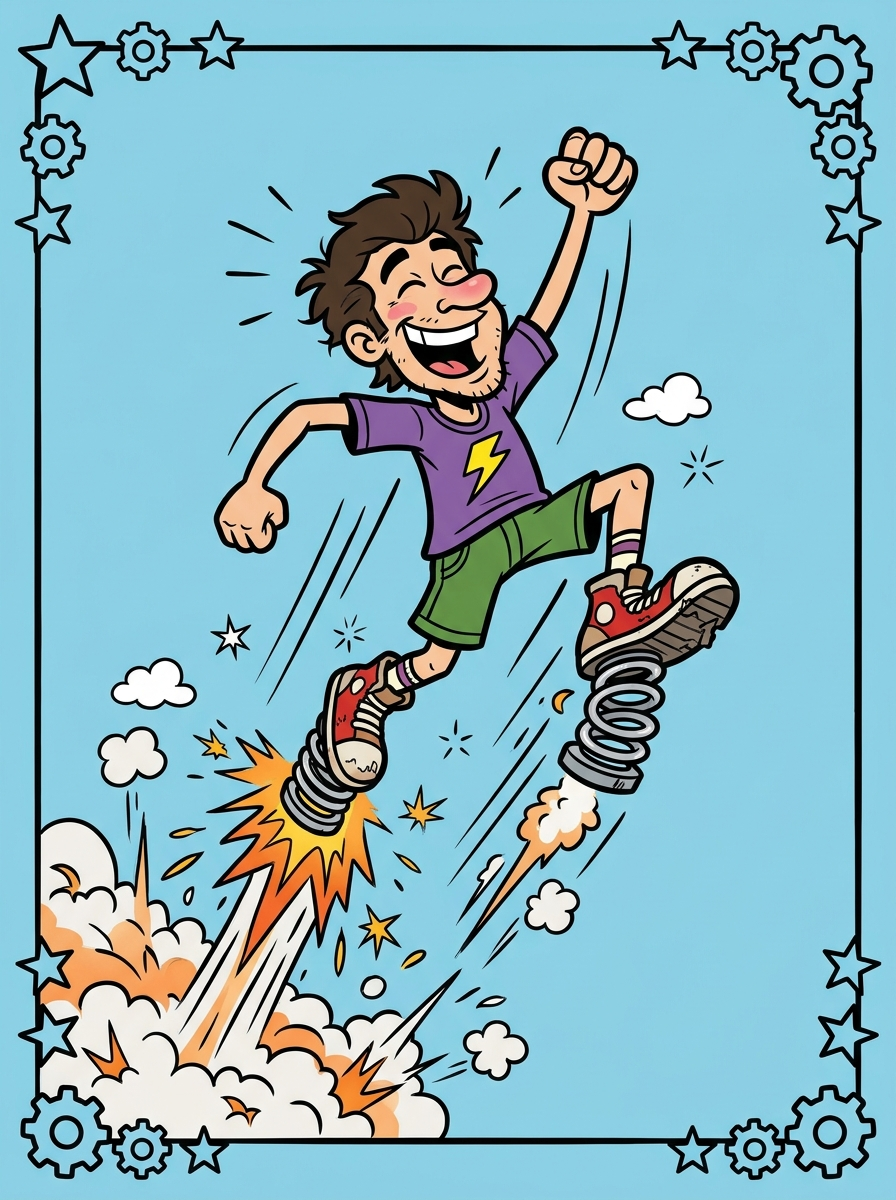
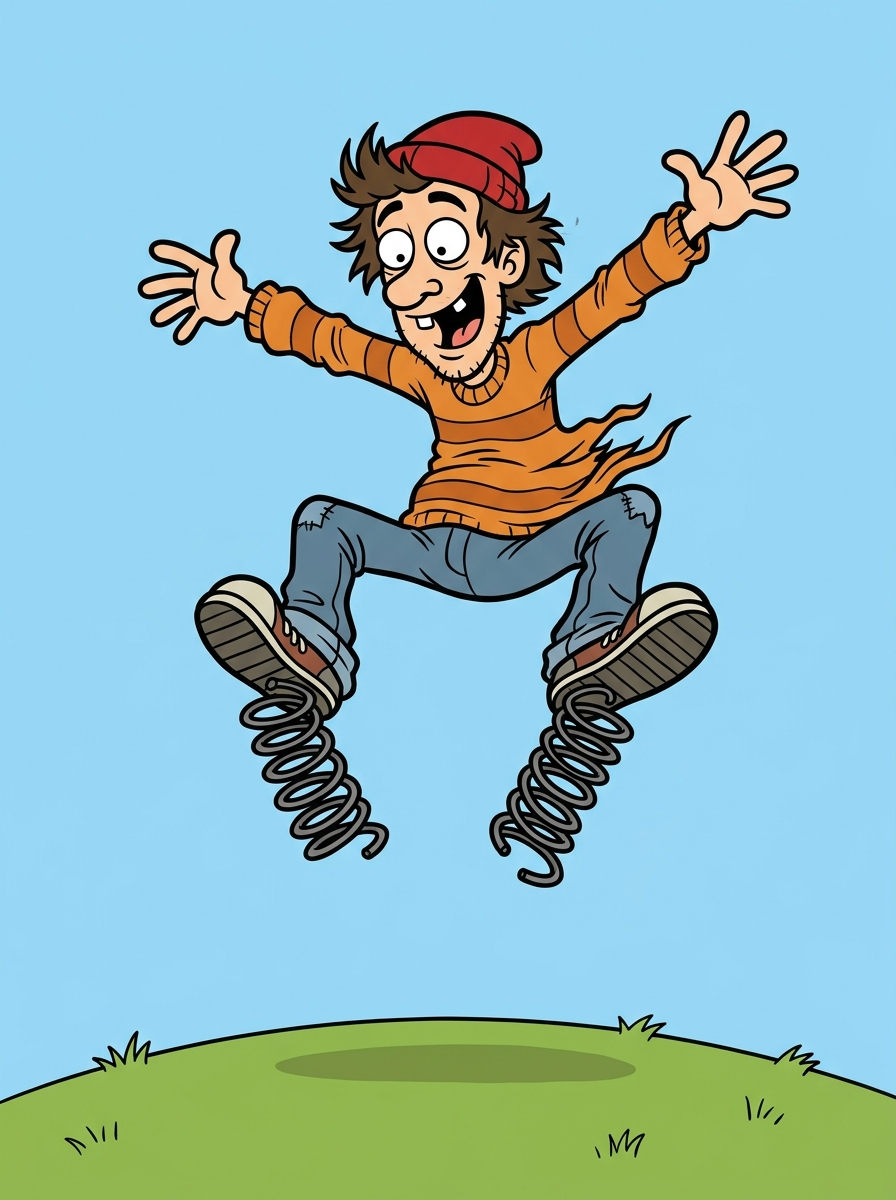
fix(who-goes): rewrite all 27 cards with dedicated sitcom cartoon illustrations matching each exact prompt without duplicates

diff --git a/tests/whoGoes.test.ts b/tests/whoGoes.test.ts
@@ -34,26 +34,26 @@ export async function runWhoGoesTests(logger: (msg: string) => void): Promise<{ 
     });
   });
 
-  // Teste 3: Mapeamento de Cartas com 27 Imagens Exclusivas
-  test('Mapeamento de Cartas: Cada índice mapeia para seu arquivo individual de carta exclusiva', () => {
+  // Teste 3: Mapeamento de Cartas com 27 Imagens Exclusivas no Estilo Cartoon Sitcom
+  test('Mapeamento de Cartas: Cada índice mapeia para seu arquivo individual de ilustração cartoon', () => {
     for (let i = 0; i < 27; i++) {
       const cardStyle = getCardSpriteStyle(i);
-      assert.ok(String(cardStyle.backgroundImage).includes(`/boardgame-cards/quem-vai-cards/card-${i}.png`), `Carta #${i} deve mapear para card-${i}.png`);
+      assert.ok(String(cardStyle.backgroundImage).includes(`/boardgame-cards/cartoon/card-${i}.jpg`), `Carta #${i} deve mapear para cartoon/card-${i}.jpg`);
       assert.equal(cardStyle.backgroundSize, 'cover');
       assert.equal(cardStyle.backgroundPosition, 'center');
     }
   });
 
-  // Teste 4: Existência Física e Unicidade Absoluta das 27 Cartas
-  test('Arquivos de Arte: Todas as 27 cartas existem em public/boardgame-cards/quem-vai-cards/ e nenhuma é repetida', () => {
-    const cardsDir = path.join(process.cwd(), 'public', 'boardgame-cards', 'quem-vai-cards');
-    assert.ok(fs.existsSync(cardsDir), 'Pasta public/boardgame-cards/quem-vai-cards deve existir');
+  // Teste 4: Existência Física e Unicidade Absoluta das 27 Ilustrações
+  test('Arquivos de Arte: Todas as 27 cartas existem em public/boardgame-cards/cartoon/ e nenhuma é repetida', () => {
+    const cardsDir = path.join(process.cwd(), 'public', 'boardgame-cards', 'cartoon');
+    assert.ok(fs.existsSync(cardsDir), 'Pasta public/boardgame-cards/cartoon deve existir');
 
     const hashes = new Set<string>();
 
     for (let i = 0; i < 27; i++) {
-      const cardPath = path.join(cardsDir, `card-${i}.png`);
-      assert.ok(fs.existsSync(cardPath), `Carta card-${i}.png deve existir`);
+      const cardPath = path.join(cardsDir, `card-${i}.jpg`);
+      assert.ok(fs.existsSync(cardPath), `Carta cartoon card-${i}.jpg deve existir`);
       const stat = fs.statSync(cardPath);
       assert.ok(stat.size > 20000, `Carta ${i} deve ter tamanho maior que 20KB (possui ${stat.size} bytes)`);
 

diff --git a/src/components/WhoGoesModal.tsx b/src/components/WhoGoesModal.tsx
@@ -145,12 +145,12 @@ export function WhoGoesModal({ isOpen, onClose, initialIndex }: WhoGoesModalProp
           <div 
             style={{
               ...spriteStyle,
-              aspectRatio: '1',
+              aspectRatio: '3 / 4',
               width: '100%',
-              backgroundColor: '#efe4cb',
+              backgroundColor: '#dbeafe',
               backgroundRepeat: 'no-repeat',
               backgroundPosition: 'center',
-              backgroundSize: 'contain',
+              backgroundSize: 'cover',
             }}
             role="img"
             aria-label={currentText}

diff --git a/src/utils/whoGoesUtils.ts b/src/utils/whoGoesUtils.ts
@@ -34,7 +34,7 @@ export function getCardSpriteStyle(cardIndex: number): CSSProperties {
   const safeIndex = Math.max(0, Math.min(QUEM_VAI_CARDS.length - 1, cardIndex));
   
   return {
-    backgroundImage: `url('/boardgame-cards/quem-vai-cards/card-${safeIndex}.png')`,
+    backgroundImage: `url('/boardgame-cards/cartoon/card-${safeIndex}.jpg')`,
     backgroundPosition: 'center',
     backgroundSize: 'cover',
     backgroundRepeat: 'no-repeat',
